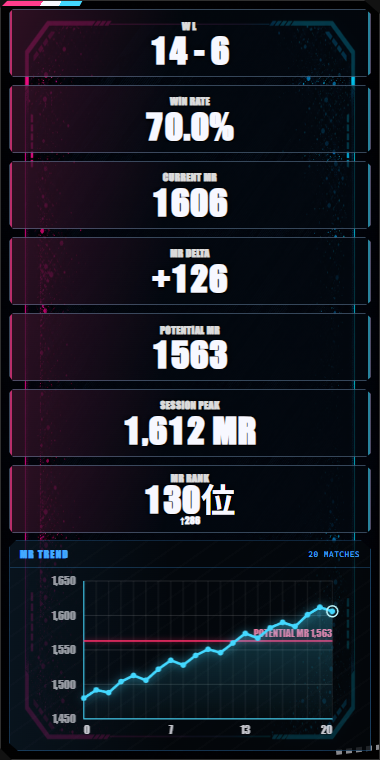
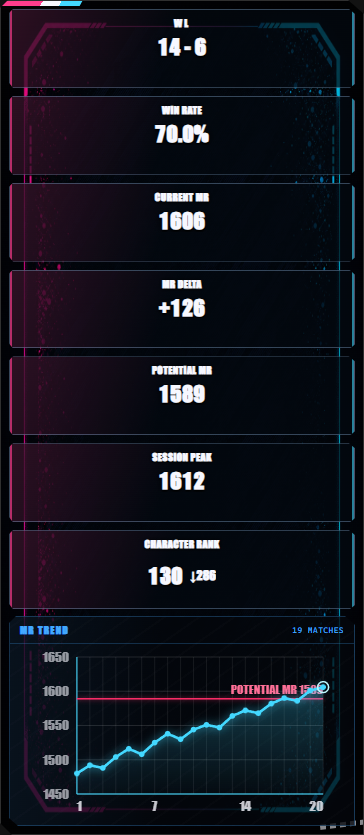
release: v1.6.0 potential rating update

Changed region(s): [[0.0, 0.0, 0.9973, 0.9987], [0.8462, 0.3026, 0.9368, 0.3329], [0.9066, 0.4842, 0.9368, 0.5447]]

diff --git a/src/potential-rating.js b/src/potential-rating.js
@@ -1,0 +1,67 @@
+(function exposePotentialRating(root, factory) {
+  const api = factory();
+  if (typeof module === "object" && module.exports) module.exports = api;
+  else root.MatchPotentialRating = api;
+})(typeof globalThis === "object" ? globalThis : this, function createPotentialRating() {
+"use strict";
+
+const MR_SMOOTHING_FACTOR = 0.6;
+const MR_STEP_LIMIT = 20;
+const LP_STEP_LIMIT = 100;
+const INITIAL_SAMPLE_LIMIT = 5;
+
+function finiteValues(values) {
+  return (Array.isArray(values) ? values : [])
+    .map((value) => Number(value))
+    .filter(Number.isFinite);
+}
+
+function medianValue(values) {
+  const sorted = finiteValues(values).sort((a, b) => a - b);
+  if (sorted.length < 2) return null;
+  const middle = Math.floor(sorted.length / 2);
+  const median = sorted.length % 2
+    ? sorted[middle]
+    : (sorted[middle - 1] + sorted[middle]) / 2;
+  return Math.round(median);
+}
+
+function robustRatingEstimate(values, stepLimit) {
+  const samples = finiteValues(values);
+  if (samples.length < 2) return null;
+
+  const initialCount = Math.min(INITIAL_SAMPLE_LIMIT, samples.length);
+  let estimate = medianValue(samples.slice(0, initialCount));
+  for (const rating of samples.slice(initialCount)) {
+    const difference = Math.max(
+      -stepLimit,
+      Math.min(stepLimit, rating - estimate),
+    );
+    estimate += difference * MR_SMOOTHING_FACTOR;
+  }
+  return Math.round(estimate);
+}
+
+function robustMrEstimate(values) {
+  return robustRatingEstimate(values, MR_STEP_LIMIT);
+}
+
+function robustLpEstimate(values) {
+  return robustRatingEstimate(values, LP_STEP_LIMIT);
+}
+
+function potentialRatingValue(values, ratingType) {
+  return ratingType === "LP" ? robustLpEstimate(values) : robustMrEstimate(values);
+}
+
+return {
+  LP_STEP_LIMIT,
+  MR_SMOOTHING_FACTOR,
+  MR_STEP_LIMIT,
+  medianValue,
+  potentialRatingValue,
+  robustLpEstimate,
+  robustMrEstimate,
+  robustRatingEstimate,
+};
+});

diff --git a/src/main.js b/src/main.js
@@ -62,6 +62,7 @@ const {
 const { suggestedInitialLocale } = require("./initial-language");
 const { buildPresentationState } = require("./presentation-model");
 const { applyCurrentProfileRatings } = require("./history-current-rating");
+const { potentialRatingValue } = require("./potential-rating");
 const {
   buildTrackerSessionPayload,
   hasRetainedTrackerSession,
@@ -1193,21 +1194,6 @@ function historyViewTrackerState() {
   };
 }
 
-function medianValue(values) {
-  const sorted = values
-    .map((value) => Number(value))
-    .filter(Number.isFinite)
-    .sort((a, b) => a - b);
-  if (sorted.length < 2) return null;
-  const middle = Math.floor(sorted.length / 2);
-  const median = sorted.length % 2
-    ? sorted[middle]
-    : (sorted[middle - 1] + sorted[middle]) / 2;
-  // MR/LP are displayed as whole points. When an even-sized sample produces
-  // a fractional median, use ordinary half-up rounding instead of decimals.
-  return Math.round(median);
-}
-
 function publicMedianRating(sourceState) {
   const hasStateRating =
     sourceState?.currentRating != null || sourceState?.active || sourceState?.readOnly;
@@ -1242,7 +1228,9 @@ function publicMedianRating(sourceState) {
       .slice(-MEDIAN_RATING_SAMPLE_LIMIT);
   }
   return {
-    medianRating: medianValue(values),
+    // Preserve the public field names for renderer/OBS compatibility. Both
+    // rating types use robust smoothing with scale-specific step limits.
+    medianRating: potentialRatingValue(values, ratingType),
     medianRatingType: ratingType,
     medianRatingSampleCount: values.length,
   };

diff --git a/src/renderer/renderer.js b/src/renderer/renderer.js
@@ -555,18 +555,15 @@ function selectHistoryPotentialRating(records, player = historyState.player) {
     .filter((record) => record.ownRatingType === ratingType)
     .map((record) => Number(record.ownRating))
     .filter(Number.isFinite)
-    .sort((a, b) => a - b);
+    .slice(-20);
   if (elements.historyPotentialLabel) {
     elements.historyPotentialLabel.textContent = `${t("potential", "POTENTIAL")} ${ratingType}`;
   }
   if (values.length < 2) {
     return { ratingType, value: null, sampleCount: values.length };
   }
-  const middle = Math.floor(values.length / 2);
-  const value = values.length % 2
-    ? values[middle]
-    : (values[middle - 1] + values[middle]) / 2;
-  return { ratingType, value: Math.round(value), sampleCount: values.length };
+  const value = window.MatchPotentialRating?.potentialRatingValue(values, ratingType) ?? null;
+  return { ratingType, value, sampleCount: values.length };
 }
 
 function renderHistoryFetchStatus() {

diff --git a/src/renderer/index.html b/src/renderer/index.html
@@ -515,6 +515,7 @@
     <script src="../history-chart-model.js"></script>
     <script src="../history-opponent-character-stats.js"></script>
     <script src="../display-number-format.js"></script>
+    <script src="../potential-rating.js"></script>
     <script src="./i18n.js"></script>
     <script src="./renderer.js"></script>
   </body>

diff --git a/docs/match-history.md b/docs/match-history.md
@@ -9,9 +9,9 @@
 
 「勝敗の推移」は常に末尾7日分のカレンダー領域を使用します。日付フィルターの終了日、最新の対戦日、対戦がない場合は現在日の順で終点を決め、試合がある日だけ実際の日付位置に積み上げ棒（勝利は赤、敗北は青）と日付ラベルを表示します。試合のない日は空白のままにし、7日を超える検索期間でもグラフだけは末尾7日間を表示します。勝敗数、勝率、対戦一覧などの集計範囲は従来どおりフィルター全体です。
 
-戦績モニターと表示ウィンドウ／オーバーレイには、現在のキャラクターの直近20試合を対象にしたMR/LP中央値を独立カードの「POTENTIAL MR／POTENTIAL LP」として表示します。2試合未満では値を表示せず、対象試合数だけを示します。偶数件で中央値が小数になる場合は四捨五入して整数表示します。対戦履歴画面にも、表示対象・期間・モード・キャラクターの絞り込みに連動したPOTENTIAL MR／POTENTIAL LPを表示します。これは公式の別レーティングや実力の確定値ではなく、一時的な上振れ・下振れを把握するための参考値です。
+戦績モニターと表示ウィンドウ／オーバーレイには、現在のキャラクターの直近20試合を対象にした参考値を、独立カードの「POTENTIAL MR／POTENTIAL LP」として表示します。どちらもロバスト指数平滑を使い、前回推定値との差を1試合あたりMRは最大20、LPは最大100に制限して60%を反映します。2試合未満では値を表示せず、対象試合数だけを示します。対戦履歴画面にも、表示対象・期間・モード・キャラクターの絞り込みに連動した値を表示します。これは公式の別レーティングや実力の確定値ではなく、一時的な上振れ・下振れを把握するための参考値です。
 
-中央値は直近の同一キャラクターのレート帯を表すため、単発の大きな勝敗に引っ張られにくく、現在の実力帯を確認する補助になります。公式サイトが提供するMR・LPそのものではありません。
+POTENTIAL MR／LPは、直近の実力変化への追従と単発変動の抑制を両立します。どちらも現在の実力帯を確認する補助であり、公式サイトが提供するMR・LPそのものではありません。
 
 ![対戦履歴画面の例（合成データ）](images/match-history-example.png)
 

diff --git a/docs/release-notes/v1.6.0.md b/docs/release-notes/v1.6.0.md
@@ -1,0 +1,54 @@
+# Match Session Overlay v1.6.0
+
+## POTENTIAL MR／LP
+
+- POTENTIAL MR／LPの算出方法を見直し、直近の実力変化へより早く追従するようにしました。
+- 一時的な連勝・連敗などによるレート変動の影響を抑えながら、現在の実力帯を確認しやすくしました。
+- 管理画面、ウィンドウ、オーバーレイ、OBS、対戦履歴で同じ算出結果を表示します。
+- POTENTIAL MR／LPはアプリ独自の参考値であり、公式のレートや将来到達するレートを示すものではありません。
+
+## 画面イメージ
+
+- READMEの説明画像を最新の画面へ更新しました。画像内のプレイヤー名、USER CODE、戦績はすべて合成データです。
+
+## 配布ファイル
+
+- 対応OS: Windows 10以降（64ビット）
+- インストーラー: `Match-Session-Overlay-1.6.0-Setup.exe`
+- SHA-256: `SECURITY_SCAN_PENDING`
+
+## セキュリティチェック
+
+- Microsoft Defender: `SECURITY_SCAN_PENDING`
+- VirusTotal: `SECURITY_SCAN_PENDING`
+- VirusTotal公開レポート: `SECURITY_SCAN_PENDING`
+
+検査結果は公開時点のものです。インストーラーは必ずこのリポジトリの公式GitHub Releaseから取得し、上記のSHA-256と一致することを確認してください。
+
+---
+
+## English
+
+### POTENTIAL MR/LP
+
+- POTENTIAL MR/LP now follows recent rating changes more quickly while reducing the effect of short-term win and loss fluctuations.
+- The same result is shown in the management screen, window, overlay, OBS output, and match history.
+- POTENTIAL MR/LP is an app-specific reference value, not an official rating or a prediction of a future rating.
+
+### Screenshots
+
+- README screenshots have been updated to the latest interface. All player names, user codes, and records shown in the images are synthetic.
+
+### Download
+
+- Supported OS: Windows 10 or later (64-bit)
+- Installer: `Match-Session-Overlay-1.6.0-Setup.exe`
+- SHA-256: `SECURITY_SCAN_PENDING`
+
+### Security checks
+
+- Microsoft Defender: `SECURITY_SCAN_PENDING`
+- VirusTotal: `SECURITY_SCAN_PENDING`
+- Public VirusTotal report: `SECURITY_SCAN_PENDING`
+
+These results were recorded when the release was published. Download the installer only from this repository's official GitHub Releases page and verify that its SHA-256 matches the value above.

diff --git a/README.en.md b/README.en.md
@@ -21,14 +21,13 @@ Open the latest release and download the installer named `Match-Session-Overlay-
 
 For step-by-step instructions, see the [English usage guide](docs/usage.en.md).
 
-## What's new in v1.5.1
+## What's new in v1.6.0
 
-- Card typography, alignment, and selected font colors are now consistent between window and overlay modes.
-- CHARACTER RANK movement is easier to read, and numeric values no longer use grouping commas.
-- Card height and extra space have been adjusted when the graph is turned on or off in horizontal and vertical layouts.
-- The current window size is preserved when display fields change, and horizontal layouts can be resized to the same minimum width.
+- POTENTIAL MR/LP now follows recent rating changes more quickly while reducing the effect of short-term fluctuations.
+- The same POTENTIAL calculation is used in the management screen, window, overlay, OBS output, and match history.
+- README screenshots have been updated to the latest interface.
 
-See the [v1.5.1 release notes](https://github.com/mickangumi-oss/match-session-overlay/releases/tag/v1.5.1) for the installer checksum and security scan results.
+See the [v1.6.0 release notes](https://github.com/mickangumi-oss/match-session-overlay/releases/tag/v1.6.0) for the installer checksum and security scan results.
 
 ## What it can show
 
@@ -41,7 +40,7 @@ See the [v1.5.1 release notes](https://github.com/mickangumi-oss/match-session-o
 - FRIENDS and FOLLOWING lists, with an optional notification when a friend comes online
 - Japanese, English, and 12 other display languages
 
-`POTENTIAL MR/LP` is not an official rating and does not predict a future rating. It is a median calculated by Match Session Overlay when at least two valid recent ranked-match values are available.
+`POTENTIAL MR/LP` is not an official rating and does not predict a future rating. It uses robust exponential smoothing over up to 20 recent ranked matches to follow recent changes while reducing short-term fluctuations.
 
 ## Display options
 

diff --git a/docs/usage.en.md b/docs/usage.en.md
@@ -35,7 +35,7 @@ Your signed-in session is stored in the app-specific folder on your own PC:
 
 Records are kept separately by character. Master-rank characters show MR; other characters show LP.
 
-After at least two ranked matches are available, the app may show `POTENTIAL MR` or `POTENTIAL LP`. This is the median of up to 20 recent ranked matches for the current player and character. It is a reference value created by the app, not an official rating or prediction.
+After at least two ranked matches are available, the app may show `POTENTIAL MR` or `POTENTIAL LP` from up to 20 recent ranked matches for the current player and character. Both use robust exponential smoothing: each new observation contributes 60% of a difference capped at 20 MR or 100 LP. These are reference values created by the app, not official ratings or predictions.
 
 ## 4. Choose where to display it
 
